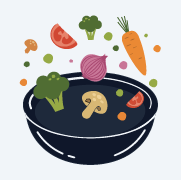
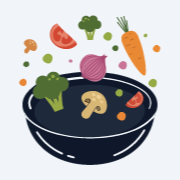
Iconos cuadrados, maskable propio y aislamiento verificado en workouts
- icon-512 e icon-maskable-512 medían 513x512, y apple-touch-icon 181x180.
  El manifest los declara 512x512 y 180x180: con esa diferencia Chrome puede
  descartar el icono y dejar de ofrecer la instalación. Recortados en vez de
  reescalados, porque la columna que sobraba era fondo (#f1f5f9) y reescalar
  resamplea todo el dibujo al pedo.
- El maskable era una copia byte a byte del icono normal, así que Android le
  cortaba los bordes al bowl. Ahora el dibujo va al 78% sobre el fondo de la
  app y entra entero en el círculo de seguridad: 0 píxeles afuera.
- verificar-aislamiento.sh ahora cubre workouts con las mismas pruebas que
  meals: leer, insertar a nombre de otro, editar, borrar y cambiar de dueño.

diff --git a/README.md b/README.md
@@ -52,7 +52,8 @@ Lo hace cumplir la base de datos, no el frontend.
 
 `scripts/verificar-aislamiento.sh` prueba todo eso contra la API real, sin pasar por la app, que
 es lo que haría alguien manipulando los requests a mano: que A no pueda leer, insertar a nombre
-de, editar ni borrar filas de B, ni subir a su carpeta, ni firmar una URL de sus fotos.
+de, editar ni borrar filas de B — ni en `meals` ni en `workouts` — ni subir a su carpeta, ni
+firmar una URL de sus fotos.
 
 ## Stack
 
